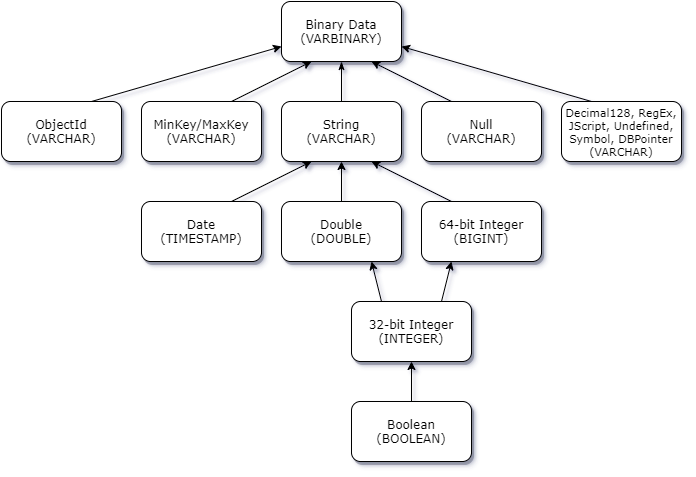
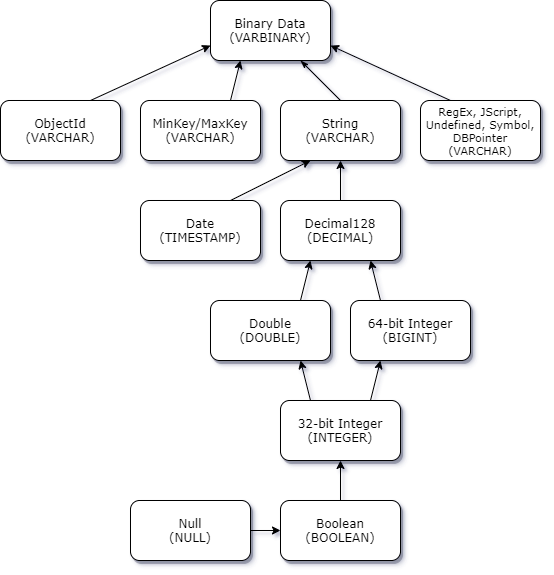
FIX: Correct metadata schema inconsistencies between documentation and code. (#38)
### Summary

FIX: Correct metadata schema inconsistencies between documentation and code.

### Description

Correct metadata schema inconsistencies between documentation and code.
Added PK for initial example.
Add Decimal128/DECIMAL support and promotion.
Corrected INT32/INTEGER and DOUBLE/DOUBLE promotion.
Corrected handling of promotion for the primary key across virtual tables for multi-document handling.

### Related Issue

https://bitquill.atlassian.net/browse/AD-70

Changed region(s): [[0.0, 0.0, 1.0, 0.9979]]

diff --git a/calcite-adapter/src/main/java/software/amazon/documentdb/jdbc/metadata/DocumentDbCollectionMetadata.java b/calcite-adapter/src/main/java/software/amazon/documentdb/jdbc/metadata/DocumentDbCollectionMetadata.java
@@ -72,6 +72,7 @@ public class DocumentDbCollectionMetadata {
                     .put(new SimpleEntry<>(Types.NULL, BsonType.BOOLEAN), Types.BOOLEAN)
                     .put(new SimpleEntry<>(Types.NULL, BsonType.BINARY), Types.VARBINARY)
                     .put(new SimpleEntry<>(Types.NULL, BsonType.DATE_TIME), Types.TIMESTAMP)
+                    .put(new SimpleEntry<>(Types.NULL, BsonType.DECIMAL128), Types.DECIMAL)
                     .put(new SimpleEntry<>(Types.NULL, BsonType.DOUBLE), Types.DOUBLE)
                     .put(new SimpleEntry<>(Types.NULL, BsonType.INT32), Types.INTEGER)
                     .put(new SimpleEntry<>(Types.NULL, BsonType.INT64), Types.BIGINT)
@@ -85,6 +86,7 @@ public class DocumentDbCollectionMetadata {
                     .put(new SimpleEntry<>(Types.ARRAY, BsonType.BOOLEAN), Types.VARCHAR)
                     .put(new SimpleEntry<>(Types.ARRAY, BsonType.BINARY), Types.VARBINARY)
                     .put(new SimpleEntry<>(Types.ARRAY, BsonType.DATE_TIME), Types.VARCHAR)
+                    .put(new SimpleEntry<>(Types.ARRAY, BsonType.DECIMAL128), Types.VARCHAR)
                     .put(new SimpleEntry<>(Types.ARRAY, BsonType.DOUBLE), Types.VARCHAR)
                     .put(new SimpleEntry<>(Types.ARRAY, BsonType.INT32), Types.VARCHAR)
                     .put(new SimpleEntry<>(Types.ARRAY, BsonType.INT64), Types.VARCHAR)
@@ -98,6 +100,7 @@ public class DocumentDbCollectionMetadata {
                     .put(new SimpleEntry<>(Types.JAVA_OBJECT, BsonType.BOOLEAN), Types.VARCHAR)
                     .put(new SimpleEntry<>(Types.JAVA_OBJECT, BsonType.BINARY), Types.VARBINARY)
                     .put(new SimpleEntry<>(Types.JAVA_OBJECT, BsonType.DATE_TIME), Types.VARCHAR)
+                    .put(new SimpleEntry<>(Types.JAVA_OBJECT, BsonType.DECIMAL128), Types.VARCHAR)
                     .put(new SimpleEntry<>(Types.JAVA_OBJECT, BsonType.DOUBLE), Types.VARCHAR)
                     .put(new SimpleEntry<>(Types.JAVA_OBJECT, BsonType.INT32), Types.VARCHAR)
                     .put(new SimpleEntry<>(Types.JAVA_OBJECT, BsonType.INT64), Types.VARCHAR)
@@ -111,6 +114,7 @@ public class DocumentDbCollectionMetadata {
                     .put(new SimpleEntry<>(Types.BOOLEAN, BsonType.BOOLEAN), Types.BOOLEAN)
                     .put(new SimpleEntry<>(Types.BOOLEAN, BsonType.BINARY), Types.VARBINARY)
                     .put(new SimpleEntry<>(Types.BOOLEAN, BsonType.DATE_TIME), Types.VARCHAR)
+                    .put(new SimpleEntry<>(Types.BOOLEAN, BsonType.DECIMAL128), Types.DECIMAL)
                     .put(new SimpleEntry<>(Types.BOOLEAN, BsonType.DOUBLE), Types.DOUBLE)
                     .put(new SimpleEntry<>(Types.BOOLEAN, BsonType.INT32), Types.INTEGER)
                     .put(new SimpleEntry<>(Types.BOOLEAN, BsonType.INT64), Types.BIGINT)
@@ -124,7 +128,8 @@ public class DocumentDbCollectionMetadata {
                     .put(new SimpleEntry<>(Types.BIGINT, BsonType.BOOLEAN), Types.BIGINT)
                     .put(new SimpleEntry<>(Types.BIGINT, BsonType.BINARY), Types.VARBINARY)
                     .put(new SimpleEntry<>(Types.BIGINT, BsonType.DATE_TIME), Types.VARCHAR)
-                    .put(new SimpleEntry<>(Types.BIGINT, BsonType.DOUBLE), Types.VARCHAR)
+                    .put(new SimpleEntry<>(Types.BIGINT, BsonType.DECIMAL128), Types.DECIMAL)
+                    .put(new SimpleEntry<>(Types.BIGINT, BsonType.DOUBLE), Types.DECIMAL)
                     .put(new SimpleEntry<>(Types.BIGINT, BsonType.INT32), Types.BIGINT)
                     .put(new SimpleEntry<>(Types.BIGINT, BsonType.INT64), Types.BIGINT)
                     .put(new SimpleEntry<>(Types.BIGINT, BsonType.MAX_KEY), Types.VARCHAR)
@@ -134,12 +139,27 @@ public class DocumentDbCollectionMetadata {
                     .put(new SimpleEntry<>(Types.BIGINT, BsonType.STRING), Types.VARCHAR)
                     .put(new SimpleEntry<>(Types.BIGINT, BsonType.ARRAY), Types.VARCHAR)
                     .put(new SimpleEntry<>(Types.BIGINT, BsonType.DOCUMENT), Types.VARCHAR)
+                    .put(new SimpleEntry<>(Types.DECIMAL, BsonType.BOOLEAN), Types.DECIMAL)
+                    .put(new SimpleEntry<>(Types.DECIMAL, BsonType.BINARY), Types.VARBINARY)
+                    .put(new SimpleEntry<>(Types.DECIMAL, BsonType.DATE_TIME), Types.VARCHAR)
+                    .put(new SimpleEntry<>(Types.DECIMAL, BsonType.DECIMAL128), Types.DECIMAL)
+                    .put(new SimpleEntry<>(Types.DECIMAL, BsonType.DOUBLE), Types.DECIMAL)
+                    .put(new SimpleEntry<>(Types.DECIMAL, BsonType.INT32), Types.DECIMAL)
+                    .put(new SimpleEntry<>(Types.DECIMAL, BsonType.INT64), Types.DECIMAL)
+                    .put(new SimpleEntry<>(Types.DECIMAL, BsonType.MAX_KEY), Types.VARCHAR)
+                    .put(new SimpleEntry<>(Types.DECIMAL, BsonType.MIN_KEY), Types.VARCHAR)
+                    .put(new SimpleEntry<>(Types.DECIMAL, BsonType.NULL), Types.DECIMAL)
+                    .put(new SimpleEntry<>(Types.DECIMAL, BsonType.OBJECT_ID), Types.VARCHAR)
+                    .put(new SimpleEntry<>(Types.DECIMAL, BsonType.STRING), Types.VARCHAR)
+                    .put(new SimpleEntry<>(Types.DECIMAL, BsonType.ARRAY), Types.VARCHAR)
+                    .put(new SimpleEntry<>(Types.DECIMAL, BsonType.DOCUMENT), Types.VARCHAR)
                     .put(new SimpleEntry<>(Types.DOUBLE, BsonType.BOOLEAN), Types.DOUBLE)
                     .put(new SimpleEntry<>(Types.DOUBLE, BsonType.BINARY), Types.VARBINARY)
                     .put(new SimpleEntry<>(Types.DOUBLE, BsonType.DATE_TIME), Types.VARCHAR)
+                    .put(new SimpleEntry<>(Types.DOUBLE, BsonType.DECIMAL128), Types.DECIMAL)
                     .put(new SimpleEntry<>(Types.DOUBLE, BsonType.DOUBLE), Types.DOUBLE)
-                    .put(new SimpleEntry<>(Types.DOUBLE, BsonType.INT32), Types.VARCHAR)
-                    .put(new SimpleEntry<>(Types.DOUBLE, BsonType.INT64), Types.VARCHAR)
+                    .put(new SimpleEntry<>(Types.DOUBLE, BsonType.INT32), Types.DOUBLE)
+                    .put(new SimpleEntry<>(Types.DOUBLE, BsonType.INT64), Types.DECIMAL)
                     .put(new SimpleEntry<>(Types.DOUBLE, BsonType.MAX_KEY), Types.VARCHAR)
                     .put(new SimpleEntry<>(Types.DOUBLE, BsonType.MIN_KEY), Types.VARCHAR)
                     .put(new SimpleEntry<>(Types.DOUBLE, BsonType.NULL), Types.DOUBLE)
@@ -150,7 +170,8 @@ public class DocumentDbCollectionMetadata {
                     .put(new SimpleEntry<>(Types.INTEGER, BsonType.BOOLEAN), Types.INTEGER)
                     .put(new SimpleEntry<>(Types.INTEGER, BsonType.BINARY), Types.VARBINARY)
                     .put(new SimpleEntry<>(Types.INTEGER, BsonType.DATE_TIME), Types.VARCHAR)
-                    .put(new SimpleEntry<>(Types.INTEGER, BsonType.DOUBLE), Types.VARCHAR)
+                    .put(new SimpleEntry<>(Types.INTEGER, BsonType.DECIMAL128), Types.DECIMAL)
+                    .put(new SimpleEntry<>(Types.INTEGER, BsonType.DOUBLE), Types.DOUBLE)
                     .put(new SimpleEntry<>(Types.INTEGER, BsonType.INT32), Types.INTEGER)
                     .put(new SimpleEntry<>(Types.INTEGER, BsonType.INT64), Types.BIGINT)
                     .put(new SimpleEntry<>(Types.INTEGER, BsonType.MAX_KEY), Types.VARCHAR)
@@ -163,6 +184,7 @@ public class DocumentDbCollectionMetadata {
                     .put(new SimpleEntry<>(Types.TIMESTAMP, BsonType.BOOLEAN), Types.VARCHAR)
                     .put(new SimpleEntry<>(Types.TIMESTAMP, BsonType.BINARY), Types.VARBINARY)
                     .put(new SimpleEntry<>(Types.TIMESTAMP, BsonType.DATE_TIME), Types.TIMESTAMP)
+                    .put(new SimpleEntry<>(Types.TIMESTAMP, BsonType.DECIMAL128), Types.VARCHAR)
                     .put(new SimpleEntry<>(Types.TIMESTAMP, BsonType.DOUBLE), Types.VARCHAR)
                     .put(new SimpleEntry<>(Types.TIMESTAMP, BsonType.INT32), Types.VARCHAR)
                     .put(new SimpleEntry<>(Types.TIMESTAMP, BsonType.INT64), Types.VARCHAR)
@@ -176,6 +198,7 @@ public class DocumentDbCollectionMetadata {
                     .put(new SimpleEntry<>(Types.VARBINARY, BsonType.BOOLEAN), Types.VARBINARY)
                     .put(new SimpleEntry<>(Types.VARBINARY, BsonType.BINARY), Types.VARBINARY)
                     .put(new SimpleEntry<>(Types.VARBINARY, BsonType.DATE_TIME), Types.VARBINARY)
+                    .put(new SimpleEntry<>(Types.VARBINARY, BsonType.DECIMAL128), Types.VARBINARY)
                     .put(new SimpleEntry<>(Types.VARBINARY, BsonType.DOUBLE), Types.VARBINARY)
                     .put(new SimpleEntry<>(Types.VARBINARY, BsonType.INT32), Types.VARBINARY)
                     .put(new SimpleEntry<>(Types.VARBINARY, BsonType.INT64), Types.VARBINARY)
@@ -189,6 +212,7 @@ public class DocumentDbCollectionMetadata {
                     .put(new SimpleEntry<>(Types.VARCHAR, BsonType.BOOLEAN), Types.VARCHAR)
                     .put(new SimpleEntry<>(Types.VARCHAR, BsonType.BINARY), Types.VARBINARY)
                     .put(new SimpleEntry<>(Types.VARCHAR, BsonType.DATE_TIME), Types.VARCHAR)
+                    .put(new SimpleEntry<>(Types.VARCHAR, BsonType.DECIMAL128), Types.VARCHAR)
                     .put(new SimpleEntry<>(Types.VARCHAR, BsonType.DOUBLE), Types.VARCHAR)
                     .put(new SimpleEntry<>(Types.VARCHAR, BsonType.INT32), Types.VARCHAR)
                     .put(new SimpleEntry<>(Types.VARCHAR, BsonType.INT64), Types.VARCHAR)
@@ -309,7 +333,7 @@ public class DocumentDbCollectionMetadata {
 
             // ASSUMPTION: relying on the behaviour that the "_id" field will ALWAYS be first
             // in the root document.
-            final int prevSqlType = getPrevSqlTypeOrDefault(prevMetadataColumn, Types.NULL);
+            final int prevSqlType = getPrevSqlTypeOrDefault(prevMetadataColumn);
             final int nextSqlType = getSqlTypeIfIsPrimaryKey(bsonType, prevSqlType, isPrimaryKey);
 
             if (nextSqlType == Types.JAVA_OBJECT && bsonType != BsonType.NULL) {
@@ -344,6 +368,18 @@ public class DocumentDbCollectionMetadata {
                     .build();
             columnMap.put(metadataColumn.getName(), metadataColumn);
             addToForeignKeysIfIsPrimary(foreignKeys, isPrimaryKey, metadataColumn);
+        }
+
+        // Ensure virtual table primary key column data types are consistent.
+        if (isRootDocument) {
+            final String primaryKeyColumnName = toName(combinePath(path, ID_FIELD_NAME));
+            final DocumentDbMetadataColumn primaryKeyColumn = columnMap.get(primaryKeyColumnName);
+            for (DocumentDbMetadataTable table : tableMap.values()) {
+                final DocumentDbMetadataColumn column = table.getColumns().get(primaryKeyColumnName);
+                if (column != null) {
+                    column.setSqlType(primaryKeyColumn.getSqlType());
+                }
+            }
         }
 
         // Add virtual table.
@@ -730,11 +766,10 @@ public class DocumentDbCollectionMetadata {
                 : getPromotedSqlType(bsonType, prevSqlType);
     }
 
-    private static int getPrevSqlTypeOrDefault(final DocumentDbMetadataColumn prevMetadataColumn,
-            final int defaultValue) {
+    private static int getPrevSqlTypeOrDefault(final DocumentDbMetadataColumn prevMetadataColumn) {
         return prevMetadataColumn != null
                 ? prevMetadataColumn.getSqlType()
-                : defaultValue;
+                : Types.NULL;
     }
 
     private static boolean isComplexType(final int sqlType) {

diff --git a/calcite-adapter/src/test/java/software/amazon/documentdb/jdbc/metadata/DocumentDbCollectionMetadataTest.java b/calcite-adapter/src/test/java/software/amazon/documentdb/jdbc/metadata/DocumentDbCollectionMetadataTest.java
@@ -21,6 +21,7 @@ import org.bson.BsonArray;
 import org.bson.BsonBinary;
 import org.bson.BsonBoolean;
 import org.bson.BsonDateTime;
+import org.bson.BsonDecimal128;
 import org.bson.BsonDocument;
 import org.bson.BsonDouble;
 import org.bson.BsonInt32;
@@ -32,6 +33,7 @@ import org.bson.BsonObjectId;
 import org.bson.BsonString;
 import org.bson.BsonType;
 import org.bson.BsonValue;
+import org.bson.types.Decimal128;
 import org.junit.jupiter.api.Assertions;
 import org.junit.jupiter.api.Test;
 import java.sql.Types;
@@ -66,6 +68,7 @@ class DocumentDbCollectionMetadataTest {
             final long dateTime = Instant.parse("2020-01-01T00:00:00.00Z").toEpochMilli();
             final BsonDocument document = new BsonDocument()
                     .append("_id", new BsonObjectId())
+                    .append("fieldDecimal128", new BsonDecimal128(Decimal128.POSITIVE_INFINITY))
                     .append("fieldDouble", new BsonDouble(Double.MAX_VALUE))
                     .append("fieldString", new BsonString("新年快乐"))
                     .append("fieldObjectId", new BsonObjectId())
@@ -90,14 +93,15 @@ class DocumentDbCollectionMetadataTest {
                 metadata.getTables().get(COLLECTION_NAME).getName());
         final Map<String, DocumentDbMetadataTable> metadataTableMap = metadata.getTables();
         final DocumentDbMetadataTable metadataTable = metadataTableMap.get(COLLECTION_NAME);
-        Assertions.assertEquals(12, metadataTable.getColumns().size());
+        Assertions.assertEquals(13, metadataTable.getColumns().size());
         final Set<Integer> integerSet = metadataTable.getColumns().values().stream().collect(
                 Collectors.groupingBy(DocumentDbMetadataColumn::getSqlType)).keySet();
-        Assertions.assertEquals(8, integerSet.size());
+        Assertions.assertEquals(9, integerSet.size());
         final Set<Integer> expectedTypes = ImmutableSet.of(
                 Types.BIGINT,
                 Types.VARBINARY,
                 Types.BOOLEAN,
+                Types.DECIMAL,
                 Types.DOUBLE,
                 Types.INTEGER,
                 Types.NULL,
@@ -122,6 +126,7 @@ class DocumentDbCollectionMetadataTest {
                 BsonType.BINARY,
                 BsonType.BOOLEAN,
                 BsonType.DATE_TIME,
+                BsonType.DECIMAL128,
                 BsonType.DOUBLE,
                 BsonType.INT32,
                 BsonType.INT64,
@@ -137,6 +142,7 @@ class DocumentDbCollectionMetadataTest {
                 new BsonBinary(new byte[]{0, 1, 2}),
                 new BsonBoolean(false),
                 new BsonDateTime(dateTime),
+                new BsonDecimal128(Decimal128.POSITIVE_INFINITY),
                 new BsonDouble(Double.MAX_VALUE),
                 new BsonInt32(Integer.MAX_VALUE),
                 new BsonInt64(Long.MAX_VALUE),
@@ -201,7 +207,6 @@ class DocumentDbCollectionMetadataTest {
     void testUnsupportedCreateScalarPromotedSqlTypes() {
         final BsonType[] unsupportedBsonTypeSet = new BsonType[] {
                 BsonType.DB_POINTER,
-                BsonType.DECIMAL128,
                 BsonType.JAVASCRIPT,
                 BsonType.JAVASCRIPT_WITH_SCOPE,
                 BsonType.REGULAR_EXPRESSION,
@@ -224,7 +229,7 @@ class DocumentDbCollectionMetadataTest {
     @Test
     void testCreateScalarFieldsMissing() {
         final List<BsonDocument> documentList = new ArrayList<>();
-        for (int count = 0; count < 12; count++) {
+        for (int count = 0; count < 13; count++) {
             final long dateTime = Instant.parse("2020-01-01T00:00:00.00Z").toEpochMilli();
             final BsonDocument document = new BsonDocument()
                     .append("_id", new BsonObjectId());
@@ -261,6 +266,9 @@ class DocumentDbCollectionMetadataTest {
             if (count == 11) {
                 document.append("fieldBinary", new BsonBinary(new byte[]{0, 1, 2}));
             }
+            if (count == 12) {
+                document.append("fieldDecimal128", new BsonDecimal128(Decimal128.POSITIVE_INFINITY));
+            }
             Assertions.assertTrue(documentList.add(document));
         }
 
@@ -275,14 +283,15 @@ class DocumentDbCollectionMetadataTest {
         final Map<String, DocumentDbMetadataTable> metadataTableMap = metadata.getTables();
         final DocumentDbMetadataTable metadataTable = metadataTableMap.get(COLLECTION_NAME);
         Assertions.assertNotNull(metadataTable);
-        Assertions.assertEquals(12, metadataTable.getColumns().size());
+        Assertions.assertEquals(13, metadataTable.getColumns().size());
         final Set<Integer> integerSet = metadataTable.getColumns().values().stream().collect(
                 Collectors.groupingBy(DocumentDbMetadataColumn::getSqlType)).keySet();
-        Assertions.assertEquals(8, integerSet.size());
+        Assertions.assertEquals(9, integerSet.size());
         final Set<Integer> expectedTypes = ImmutableSet.of(
                 Types.BIGINT,
                 Types.VARBINARY,
                 Types.BOOLEAN,
+                Types.DECIMAL,
                 Types.DOUBLE,
                 Types.INTEGER,
                 Types.NULL,
@@ -309,6 +318,7 @@ class DocumentDbCollectionMetadataTest {
             Assertions.assertTrue(9 != columnIndex || "fieldMinKey".equals(entry.getKey()));
             Assertions.assertTrue(10 != columnIndex || "fieldNull".equals(entry.getKey()));
             Assertions.assertTrue(11 != columnIndex || "fieldBinary".equals(entry.getKey()));
+            Assertions.assertTrue(12 != columnIndex || "fieldDecimal128".equals(entry.getKey()));
             columnIndex++;
         }
 
@@ -1126,6 +1136,49 @@ class DocumentDbCollectionMetadataTest {
         final String methodName = new Object() {
         }.getClass().getEnclosingMethod().getName();
         printMetadataOutput(metadata, methodName);
+    }
+
+    /**
+     * Test that primrary and foreign key have consistent type after conflict.
+     */
+    @Test
+    void testPrimaryKeyScalarTypeInconsistency() {
+        final List<BsonDocument> documents = new ArrayList<>();
+        BsonDocument document = BsonDocument.parse(
+                "{ \"_id\" : 1, \n" +
+                        "  \"array\" : [1, 1, 1] \n" +
+                        "}"
+        );
+        documents.add(document);
+        document = BsonDocument.parse(
+                "{ \"_id\" : 2.1, \n" +
+                        "  \"array\" : [ 0.0, 0.0, 0.0] \n" +
+                        "}"
+        );
+
+        documents.add(document);
+        final DocumentDbCollectionMetadata metadata = DocumentDbCollectionMetadata.create(
+                COLLECTION_NAME, documents.iterator());
+        Assertions.assertNotNull(metadata);
+        final DocumentDbMetadataTable metadataArrayTable = metadata.getTables().get(
+                toName(combinePath(COLLECTION_NAME, "array")));
+        Assertions.assertNotNull(metadataArrayTable);
+        final DocumentDbMetadataColumn metadataColumnArrayId = metadataArrayTable.getColumns().get(
+                toName(combinePath(COLLECTION_NAME, "_id")));
+        Assertions.assertNotNull(metadataColumnArrayId);
+
+        final DocumentDbMetadataTable metadataTable = metadata.getTables().get(COLLECTION_NAME);
+        Assertions.assertNotNull(metadataTable);
+        final DocumentDbMetadataColumn metadataColumnId = metadataTable.getColumns().get(
+                toName(combinePath(COLLECTION_NAME, "_id")));
+        Assertions.assertNotNull(metadataColumnId);
+
+        Assertions.assertEquals(metadataColumnId.getSqlType(), metadataColumnArrayId.getSqlType(),
+                "Type of _id columns (DocumentDbCollectionMetadataTest._id and " +
+                        "DocumentDbCollectionMetadataTest_array._id) should match");
+        Assertions.assertEquals(metadataColumnArrayId.getSqlType(), Types.DOUBLE,
+                "Type of ID columns (DocumentDbCollectionMetadataTest._id and " +
+                        "DocumentDbCollectionMetadataTest_array._id) should be DOUBLE (" + Types.DOUBLE + ")");
     }
 
     private boolean producesVirtualTable(final BsonType bsonType, final BsonType nextBsonType) {

diff --git a/common/src/testFixtures/java/software/amazon/documentdb/jdbc/common/test/DocumentDbFlapDoodleTest.java b/common/src/testFixtures/java/software/amazon/documentdb/jdbc/common/test/DocumentDbFlapDoodleTest.java
@@ -45,6 +45,7 @@ import org.apache.commons.lang3.StringUtils;
 import org.bson.BsonBinary;
 import org.bson.BsonBoolean;
 import org.bson.BsonDateTime;
+import org.bson.BsonDecimal128;
 import org.bson.BsonDocument;
 import org.bson.BsonDouble;
 import org.bson.BsonInt32;
@@ -54,6 +55,7 @@ import org.bson.BsonMinKey;
 import org.bson.BsonNull;
 import org.bson.BsonObjectId;
 import org.bson.BsonString;
+import org.bson.types.Decimal128;
 import org.junit.jupiter.api.Assertions;
 import java.io.BufferedWriter;
 import java.io.File;
@@ -282,7 +284,8 @@ public class DocumentDbFlapDoodleTest {
                         .append("fieldMaxKey", new BsonMaxKey())
                         .append("fieldMinKey", new BsonMinKey())
                         .append("fieldNull", new BsonNull())
-                        .append("fieldBinary", new BsonBinary(new byte[] { 0, 1, 2 }));
+                        .append("fieldBinary", new BsonBinary(new byte[] { 0, 1, 2 }))
+                        .append("fieldDecimal128", new BsonDecimal128(Decimal128.POSITIVE_INFINITY));
 
                 final InsertOneResult result = collection.insertOne(document);
                 Assertions.assertEquals(count + 1, collection.countDocuments());

diff --git a/calcite-adapter/src/main/java/software/amazon/documentdb/jdbc/calcite/adapter/DocumentDbTable.java b/calcite-adapter/src/main/java/software/amazon/documentdb/jdbc/calcite/adapter/DocumentDbTable.java
@@ -270,6 +270,12 @@ public class DocumentDbTable extends AbstractQueryableTable
                     ImmutableMap.<Integer, RelDataType>builder()
                             .put(Types.BIGINT, typeFactory.createSqlType(SqlTypeName.BIGINT))
                             .put(Types.BOOLEAN, typeFactory.createSqlType(SqlTypeName.BOOLEAN))
+                            .put(
+                                    Types.DECIMAL,
+                                    typeFactory.createSqlType(
+                                            SqlTypeName.DECIMAL,
+                                            typeFactory.getTypeSystem().getMaxPrecision(SqlTypeName.DECIMAL),
+                                            typeFactory.getTypeSystem().getMaxScale(SqlTypeName.DECIMAL)))
                             .put(Types.DOUBLE, typeFactory.createSqlType(SqlTypeName.DOUBLE))
                             .put(Types.INTEGER, typeFactory.createSqlType(SqlTypeName.INTEGER))
                             .put(Types.NULL, typeFactory.createSqlType(SqlTypeName.VARCHAR))

diff --git a/README.md b/README.md
@@ -85,7 +85,7 @@ The sampling behavior can be modified using connection string or datasource opti
 The DocumentDB server supports a number of MongoDB data types. Listed below are the supported data
 types, and their associated JDBC data types.
 
-| MongoDB Data Type | Supported (in DocumentDB) | JDBC Data Type |
+| MongoDB Data Type | Supported in DocumentDB | JDBC Data Type |
 | ----------- | ----------- | ----------- |
 | Binary Data| Yes | VARBINARY |
 | Boolean | Yes | BOOLEAN |
@@ -101,7 +101,7 @@ types, and their associated JDBC data types.
 | MaxKey | Yes | VARCHAR |
 | Object | Yes | _virtual table_ |
 | Array | Yes | _virtual table_ |
-| Decimal128 | No | VARCHAR |
+| Decimal128 | No | DECIMAL |
 | Regular Expression | No | VARCHAR |
 | JavaScript | No | VARCHAR |
 | JavaScript (with scope) | No | VARCHAR |
@@ -114,12 +114,13 @@ types, and their associated JDBC data types.
 When scanning a sample of documents from a collection, the JDBC driver will create one or more 
 schema to represent the samples in the collection. In general, a scalar field in the document 
 maps to a column in the table schema. For example, in a collection named `team`, and a single 
-document `{ "name" : "Alastair", "age" : 25 }`, this would map to schema:
+document `{ "_id" : "112233", "name" : "Alastair", "age" : 25 }`, this would map to schema:
 
-| Table Name | Column Name | Data Type |
-| ---| --- | --- |
-| team | name | VARCHAR |
-| team | age | INTEGER |
+| Table Name | Column Name | Data Type | Key |
+| ---| --- | --- | --- |
+| team | _**team__id**_ | VARCHAR | PK |
+| team | name | VARCHAR | |
+| team | age | INTEGER | |
 
 #### Data Type Conflict Promotion
 
@@ -264,11 +265,11 @@ maps to schema for the `customer1` table, ...
 | customer1 | _**customer1__id**_ | VARCHAR | PK |
 | customer1 | name | VARCHAR | |
 
-... and the `customer_subscriptions` virtual table
+... and the `customer1_subscriptions` virtual table
 
 | Table Name | Column Name | Data Type | Key |
 | --- | --- | --- | --- |
-| customer1_subscriptions | _**customer__id**_ | VARCHAR | PK/FK |
+| customer1_subscriptions | _**customer1__id**_ | VARCHAR | PK/FK |
 | customer1_subscriptions | subscriptions_index_lvl0 | BIGINT | PK |
 | customer1_subscriptions | value | VARCHAR | |
 
